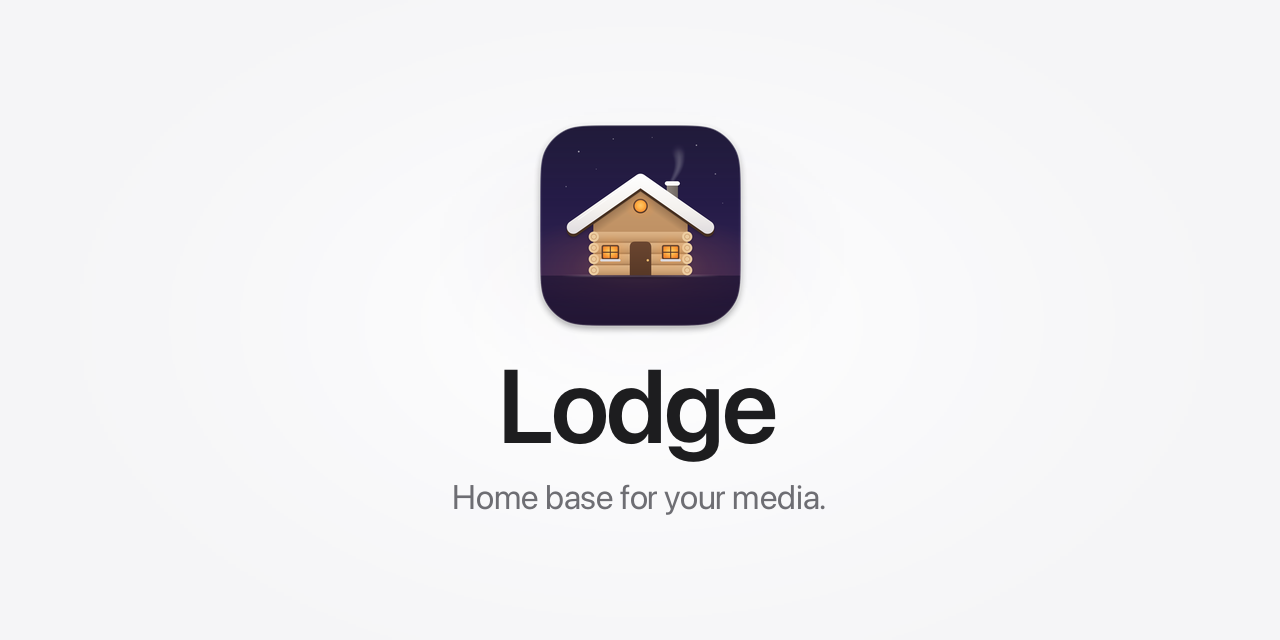
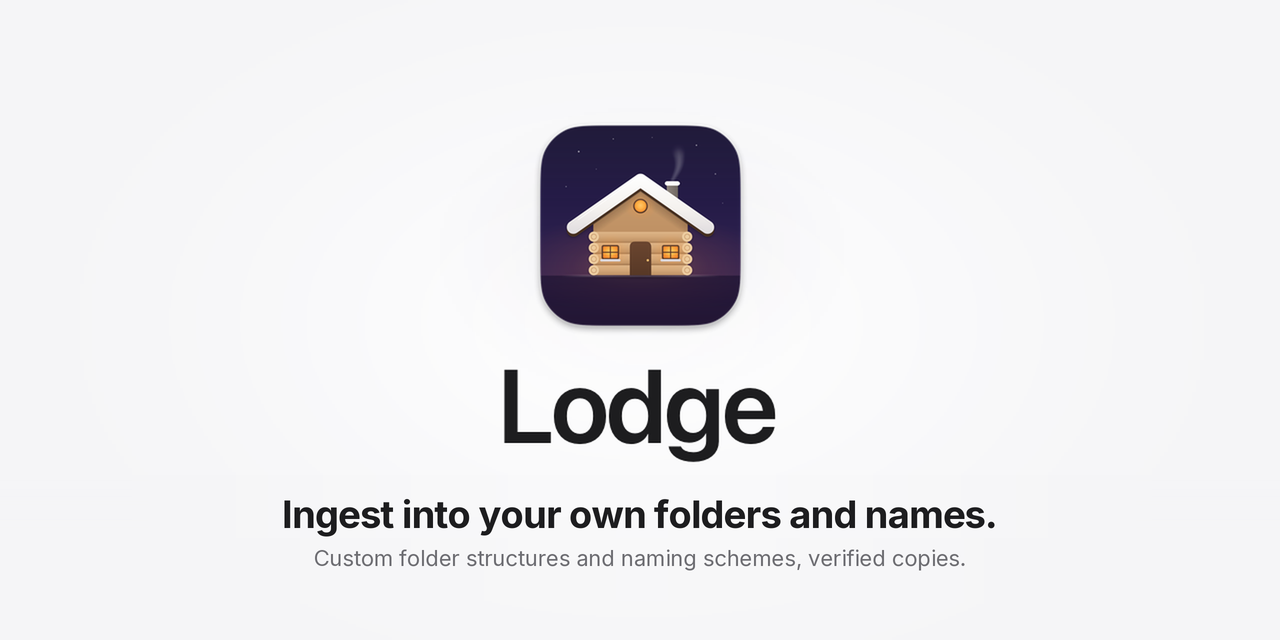
Replace the social previews with the ingest artwork.
Open Graph and Twitter image URLs use ?v=2 so caches pick up the new 1280x640 files.

Changed region(s): [[0.2188, 0.75, 0.7812, 0.9062]]

diff --git a/docs/index.html b/docs/index.html
@@ -18,7 +18,7 @@
   <meta property="og:url" content="https://bashcrandicoot.github.io/Lodge/">
   <meta property="og:title" content="Lodge — Ingest into your own folders and names.">
   <meta property="og:description" content="Ingest camera media into custom folder structures and naming schemes. Every copy is checked with SHA-256.">
-  <meta property="og:image" content="https://bashcrandicoot.github.io/Lodge/assets/lodge-social-preview.png">
+  <meta property="og:image" content="https://bashcrandicoot.github.io/Lodge/assets/lodge-social-preview.png?v=2">
   <meta property="og:image:width" content="1280">
   <meta property="og:image:height" content="640">
   <meta property="og:image:alt" content="Lodge. A log cabin at night, with pines and mountains.">
@@ -26,7 +26,7 @@
   <meta name="twitter:card" content="summary_large_image">
   <meta name="twitter:title" content="Lodge — Ingest into your own folders and names.">
   <meta name="twitter:description" content="Ingest camera media into custom folder structures and naming schemes. Every copy is checked with SHA-256.">
-  <meta name="twitter:image" content="https://bashcrandicoot.github.io/Lodge/assets/lodge-social-preview.png">
+  <meta name="twitter:image" content="https://bashcrandicoot.github.io/Lodge/assets/lodge-social-preview.png?v=2">
   <meta name="twitter:image:alt" content="Lodge. A log cabin at night, with pines and mountains.">
 
   <style>

diff --git a/docs/changelog.html b/docs/changelog.html
@@ -18,7 +18,7 @@
   <meta property="og:url" content="https://bashcrandicoot.github.io/Lodge/changelog.html">
   <meta property="og:title" content="Changelog · Lodge">
   <meta property="og:description" content="Lodge ingests camera media into your own folder structures and naming schemes, and copies it safely. Everything Lodge does, in one release.">
-  <meta property="og:image" content="https://bashcrandicoot.github.io/Lodge/assets/lodge-social-preview.png">
+  <meta property="og:image" content="https://bashcrandicoot.github.io/Lodge/assets/lodge-social-preview.png?v=2">
   <meta name="twitter:card" content="summary_large_image">
   <meta name="twitter:description" content="Lodge ingests camera media into your own folder structures and naming schemes, and copies it safely. Everything Lodge does, in one release.">
 
